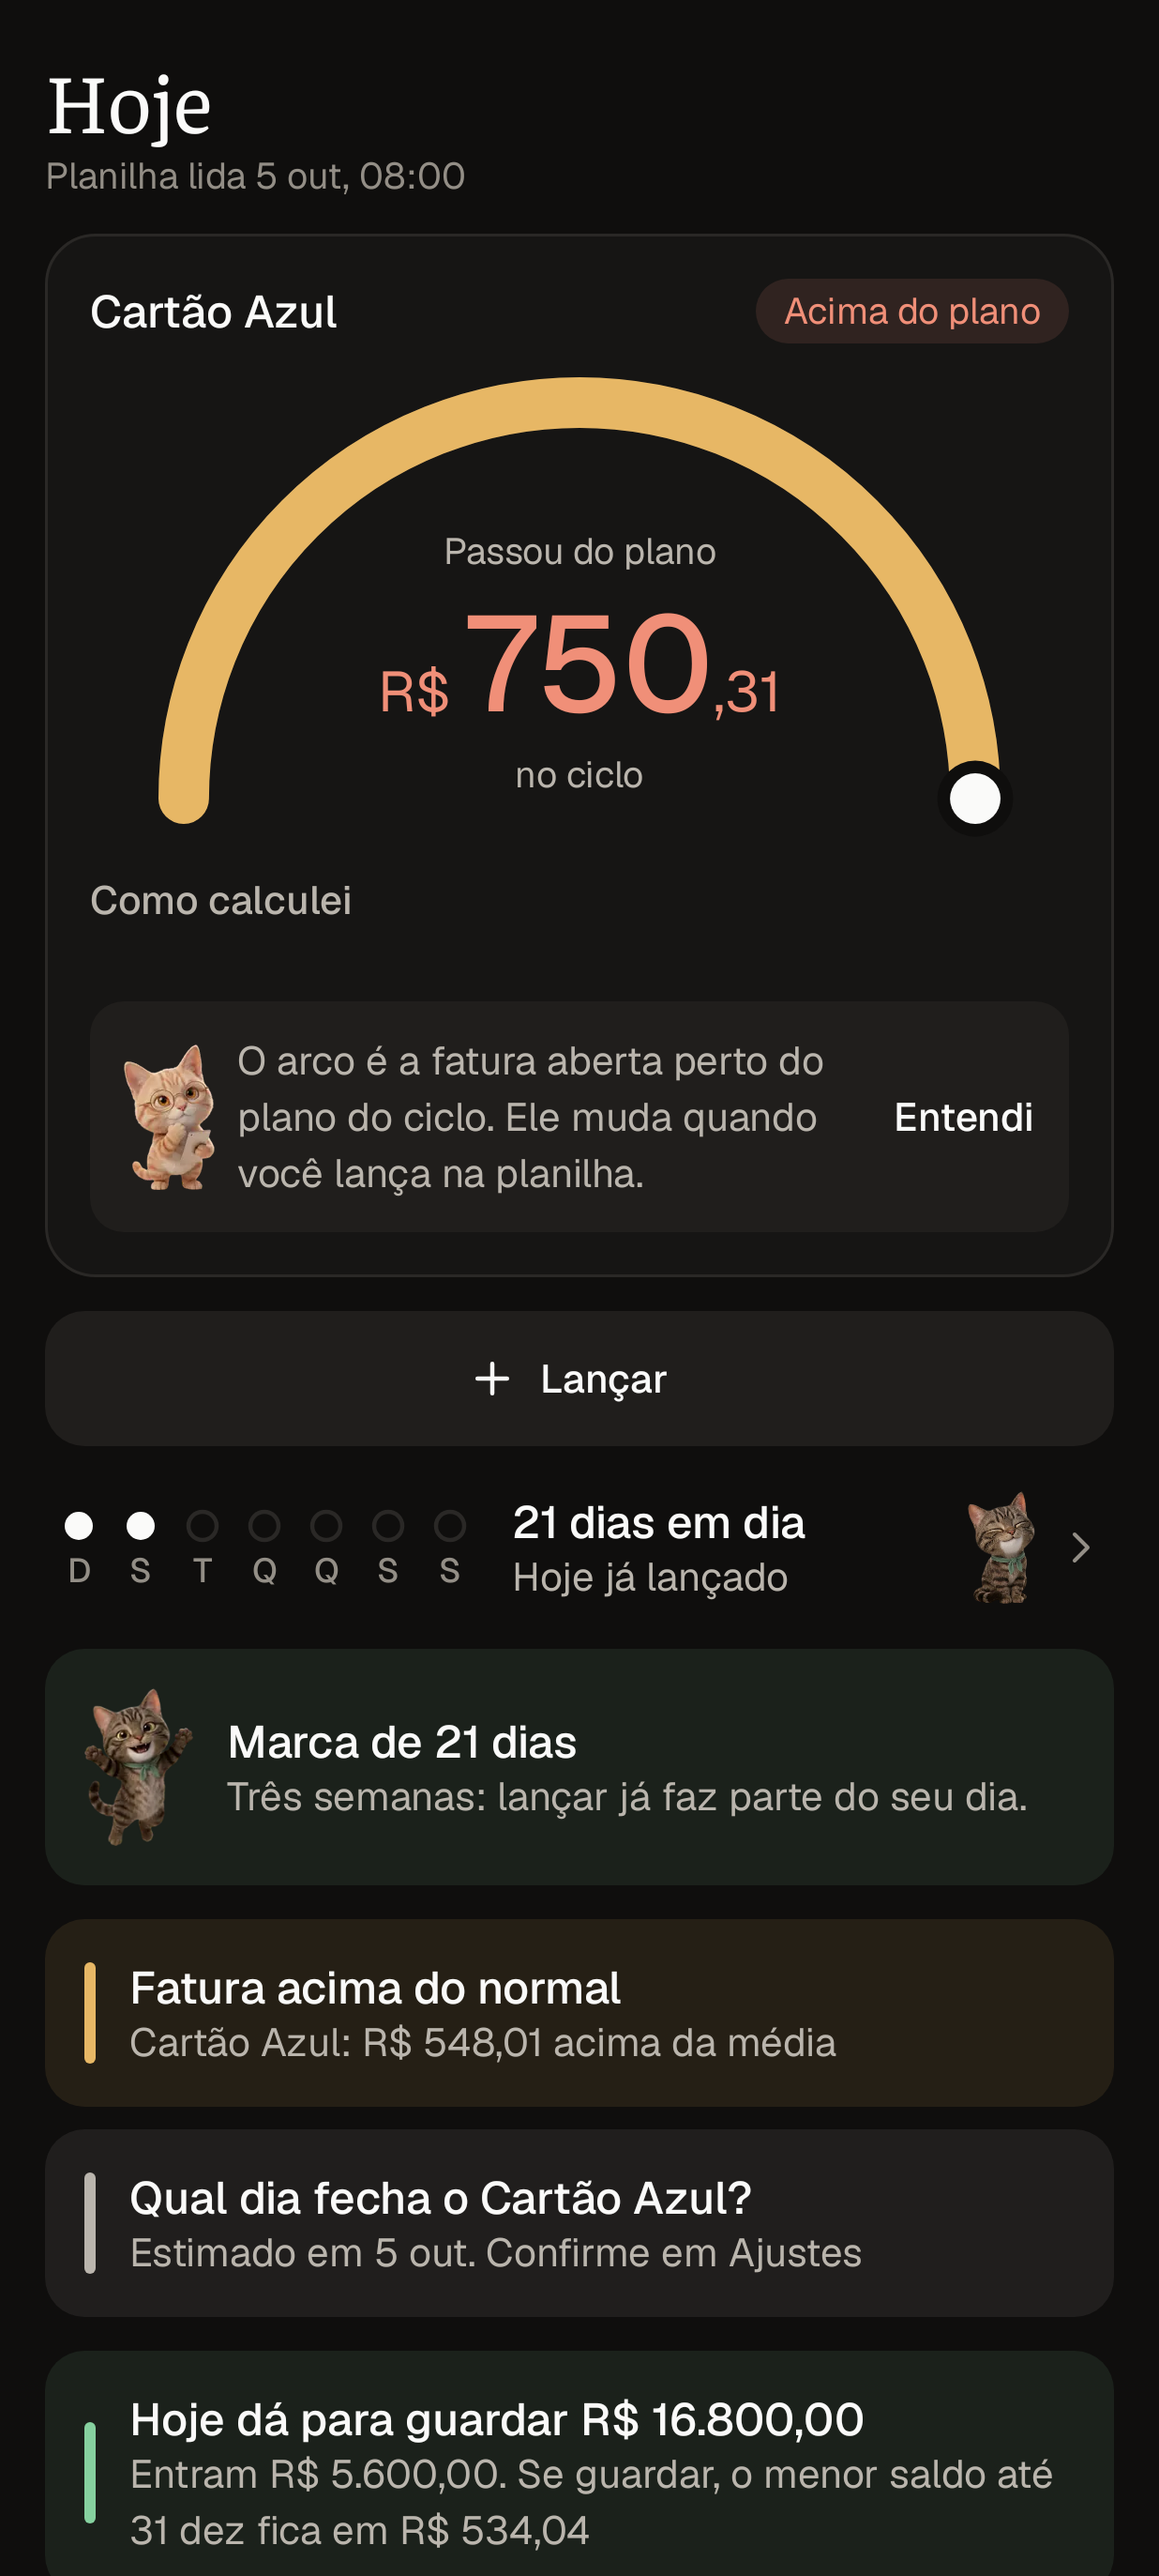
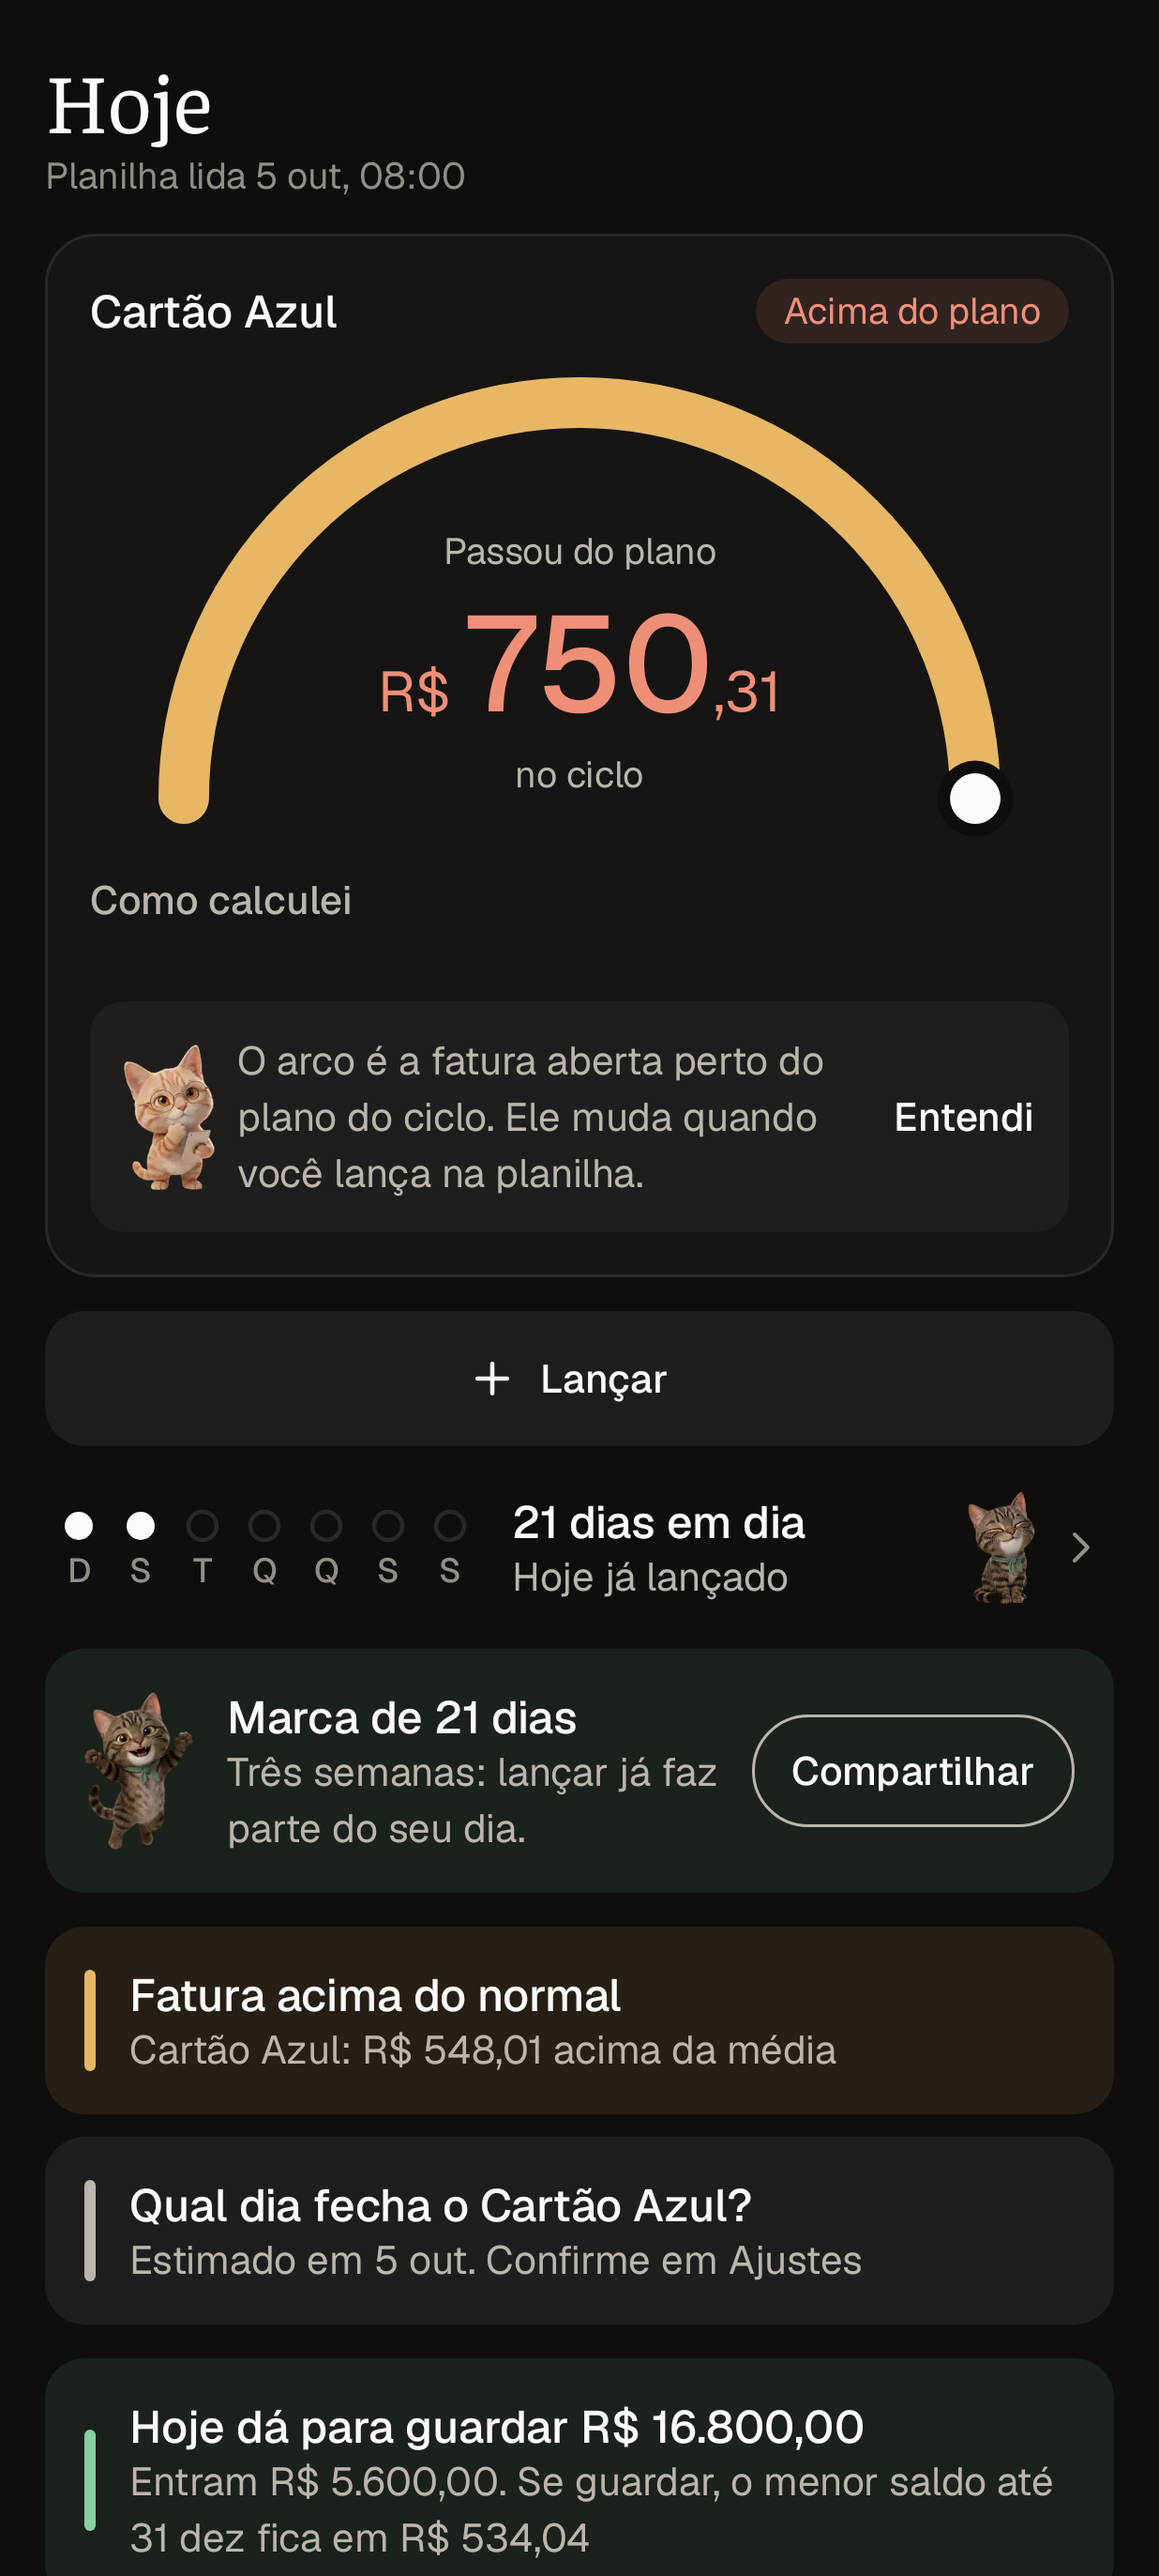
Deixa compartilhar também as marcas da sequência, com a mesma imagem das conquistas do mês (#47)
A marca de 7, 21, 66 ou 100 dias em Hoje ganha o botão Compartilhar, que gera a imagem com o
Neko comemorando, "Marca de N dias" e a frase da marca. A imagem passou a receber o título
inteiro, para servir aos dois casos; continua sem nenhum valor. Android 0.37.0.

Claude-Session: https://claude.ai/code/session_01SwzAqfvDsayEzGoVq3fRTr

diff --git a/apps/android/app/src/main/kotlin/dev/johnlaff/neko/ui/HojeScreen.kt b/apps/android/app/src/main/kotlin/dev/johnlaff/neko/ui/HojeScreen.kt
@@ -210,6 +210,7 @@ private fun Alert(
     color: androidx.compose.ui.graphics.Color,
     onClick: (() -> Unit)? = null,
     lead: (@Composable () -> Unit)? = null,
+    action: (@Composable () -> Unit)? = null,
 ) {
     val l = LocalLedger.current
     val shape = RoundedCornerShape(14.dp)
@@ -225,10 +226,11 @@ private fun Alert(
         if (lead != null) lead()
         else Box(Modifier.width(4.dp).height(36.dp).background(color, RoundedCornerShape(2.dp)))
         Spacer(Modifier.width(12.dp))
-        Column {
+        Column(Modifier.weight(1f)) {
             Text(title, style = MaterialTheme.typography.titleMedium)
             Text(detail, color = l.muted, style = MaterialTheme.typography.bodyMedium)
         }
+        action?.invoke()
     }
 }
 
@@ -236,9 +238,14 @@ private fun Alert(
 private fun MilestoneCard(m: Int) {
     val l = LocalLedger.current
     MilestoneHaptic(m)
-    Alert("Marca de $m dias", Learn.milestone(m), l.pos) {
-        CelebratingCat(Modifier.height(56.dp).hop())
-    }
+    val context = LocalContext.current
+    Alert(
+        "Marca de $m dias",
+        Learn.milestone(m),
+        l.pos,
+        lead = { CelebratingCat(Modifier.height(56.dp).hop()) },
+        action = { ShareButton { dev.johnlaff.neko.share.WinCard.share(context, "Marca de $m dias", listOf(Learn.milestone(m))) } },
+    )
 }
 
 @Composable
@@ -290,14 +297,23 @@ internal fun WinsBox(wins: List<String>, cat: Dp, title: String) {
             }
         }
         // The picture carries the wins only, never an amount (share/WinCard.kt).
-        OutlinedButton(
-            onClick = { dev.johnlaff.neko.share.WinCard.share(context, title, wins) },
-            modifier = Modifier.align(Alignment.End).padding(bottom = 6.dp).heightIn(min = 40.dp),
-            colors = ButtonDefaults.outlinedButtonColors(contentColor = l.text),
-            border = androidx.compose.foundation.BorderStroke(1.dp, l.muted),
-            contentPadding = PaddingValues(horizontal = 14.dp),
-        ) { Text("Compartilhar", style = MaterialTheme.typography.labelLarge) }
+        Box(Modifier.align(Alignment.End).padding(bottom = 6.dp)) {
+            ShareButton { dev.johnlaff.neko.share.WinCard.share(context, "$title fechou", wins) }
+        }
     }
+}
+
+/** Opens the share sheet with an achievement's picture (share/WinCard.kt). */
+@Composable
+private fun ShareButton(onClick: () -> Unit) {
+    val l = LocalLedger.current
+    OutlinedButton(
+        onClick = onClick,
+        modifier = Modifier.heightIn(min = 40.dp),
+        colors = ButtonDefaults.outlinedButtonColors(contentColor = l.text),
+        border = androidx.compose.foundation.BorderStroke(1.dp, l.muted),
+        contentPadding = PaddingValues(horizontal = 14.dp),
+    ) { Text("Compartilhar", style = MaterialTheme.typography.labelLarge, maxLines = 1) }
 }
 
 /**

diff --git a/apps/neko/src/web/Wins.tsx b/apps/neko/src/web/Wins.tsx
@@ -29,7 +29,7 @@ export function Wins({
   const share = async () => {
     setBusy(true);
     try {
-      await shareCard(`${capitalize(monthName(month))} de ${year}`, lines);
+      await shareCard(`${capitalize(monthName(month))} de ${year} fechou`, lines);
     } finally {
       setBusy(false);
     }
@@ -89,7 +89,7 @@ const drawCard = async (title: string, lines: readonly string[]) => {
   let y = Math.max(60, (H - 140 - (44 + 40 + catH + 90 + rowsH)) / 2) + 44;
   ctx.fillStyle = "#57534e";
   ctx.font = `500 44px ${font}`;
-  ctx.fillText(`${title} fechou`, W / 2, y);
+  ctx.fillText(title, W / 2, y);
   const catW = (img.naturalWidth / img.naturalHeight) * catH;
   ctx.drawImage(img, (W - catW) / 2, y + 40, catW, catH);
   y += 40 + catH + 90;
@@ -107,13 +107,16 @@ const drawCard = async (title: string, lines: readonly string[]) => {
   );
 };
 
-/** Shares the picture where the browser can (phones), else downloads it. */
-const shareCard = async (title: string, lines: readonly string[]) => {
+/**
+ * Shares a picture of an achievement where the browser can (phones), else downloads it: a
+ * heading, the celebrating Neko and the lines, never an amount.
+ */
+export const shareCard = async (title: string, lines: readonly string[]) => {
   const blob = await drawCard(title, lines);
   const file = new File([blob], "neko-conquista.png", { type: "image/png" });
   if (navigator.canShare?.({ files: [file] })) {
     try {
-      await navigator.share({ files: [file], title: `${title} fechou` });
+      await navigator.share({ files: [file], title });
     } catch {
       // Closing the share sheet is not an error.
     }

diff --git a/apps/neko/src/web/screens/Hoje.tsx b/apps/neko/src/web/screens/Hoje.tsx
@@ -39,7 +39,7 @@ import { Mascot } from "../Mascot.tsx";
 import { Simulator } from "../Pace.tsx";
 import { milestoneText, Streak } from "../Streak.tsx";
 import { WithProjection } from "../useProjection.tsx";
-import { Wins } from "../Wins.tsx";
+import { shareCard, Wins } from "../Wins.tsx";
 
 /** Each warning in a few words, with the figure that shows it and where to look next. */
 const insightView = (i: Insight) => {
@@ -414,6 +414,13 @@ const MilestoneCard = ({ milestone }: { milestone: number }) => (
           <strong>Marca de {milestone} dias</strong>
           <span>{milestoneText(milestone)}</span>
         </span>
+        <button
+          type="button"
+          className="ghost small win-share"
+          onClick={() => shareCard(`Marca de ${milestone} dias`, [milestoneText(milestone)])}
+        >
+          Compartilhar
+        </button>
       </div>
     </li>
   </ul>

diff --git a/apps/android/app/src/main/kotlin/dev/johnlaff/neko/share/WinCard.kt b/apps/android/app/src/main/kotlin/dev/johnlaff/neko/share/WinCard.kt
@@ -61,7 +61,7 @@ object WinCard {
         c.drawColor(BG)
         // Title, cat and wins as one block, centred above the footer.
         var y = maxOf(60f, (H - 140 - (44 + 40 + catH + 90 + rowsH)) / 2f) + 44
-        c.drawText("$title fechou", W / 2f, y, head)
+        c.drawText(title, W / 2f, y, head)
         ContextCompat.getDrawable(context, R.drawable.mascot_neko_comemorando)?.let { d ->
             val catW = d.intrinsicWidth * catH / d.intrinsicHeight
             val left = (W - catW) / 2
@@ -89,6 +89,6 @@ object WinCard {
             putExtra(Intent.EXTRA_STREAM, uri)
             addFlags(Intent.FLAG_GRANT_READ_URI_PERMISSION)
         }
-        context.startActivity(Intent.createChooser(send, "$title fechou").addFlags(Intent.FLAG_ACTIVITY_NEW_TASK))
+        context.startActivity(Intent.createChooser(send, title).addFlags(Intent.FLAG_ACTIVITY_NEW_TASK))
     }
 }

diff --git a/apps/android/app/src/test/kotlin/dev/johnlaff/neko/WinCardTest.kt b/apps/android/app/src/test/kotlin/dev/johnlaff/neko/WinCardTest.kt
@@ -25,7 +25,7 @@ class WinCardTest {
         val context = ApplicationProvider.getApplicationContext<Context>()
         val bmp = WinCard.draw(
             context,
-            "Setembro de 2026",
+            "Setembro de 2026 fechou",
             listOf("3 meses seguidos no azul", "Recorde: guardou 34% das entradas, o maior até aqui"),
         )
         assertEquals(1080, bmp.width)
